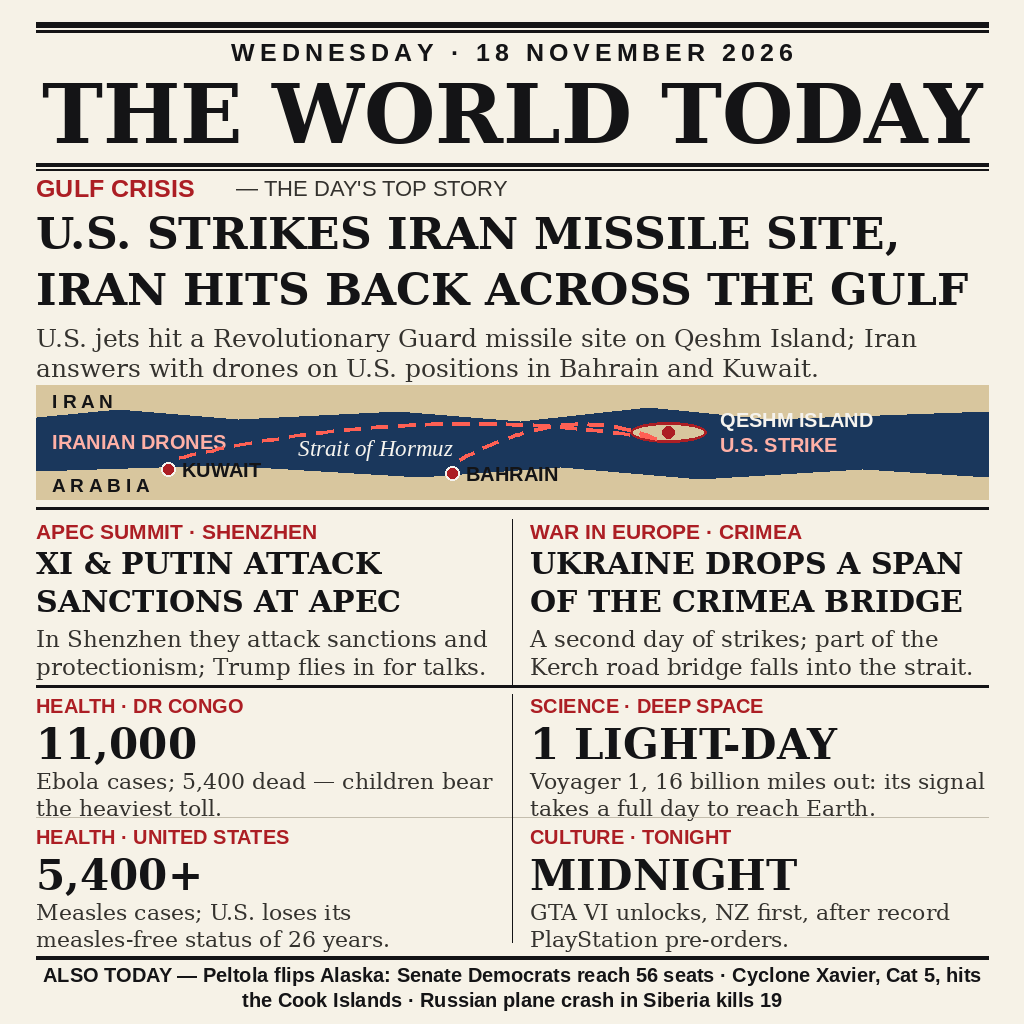
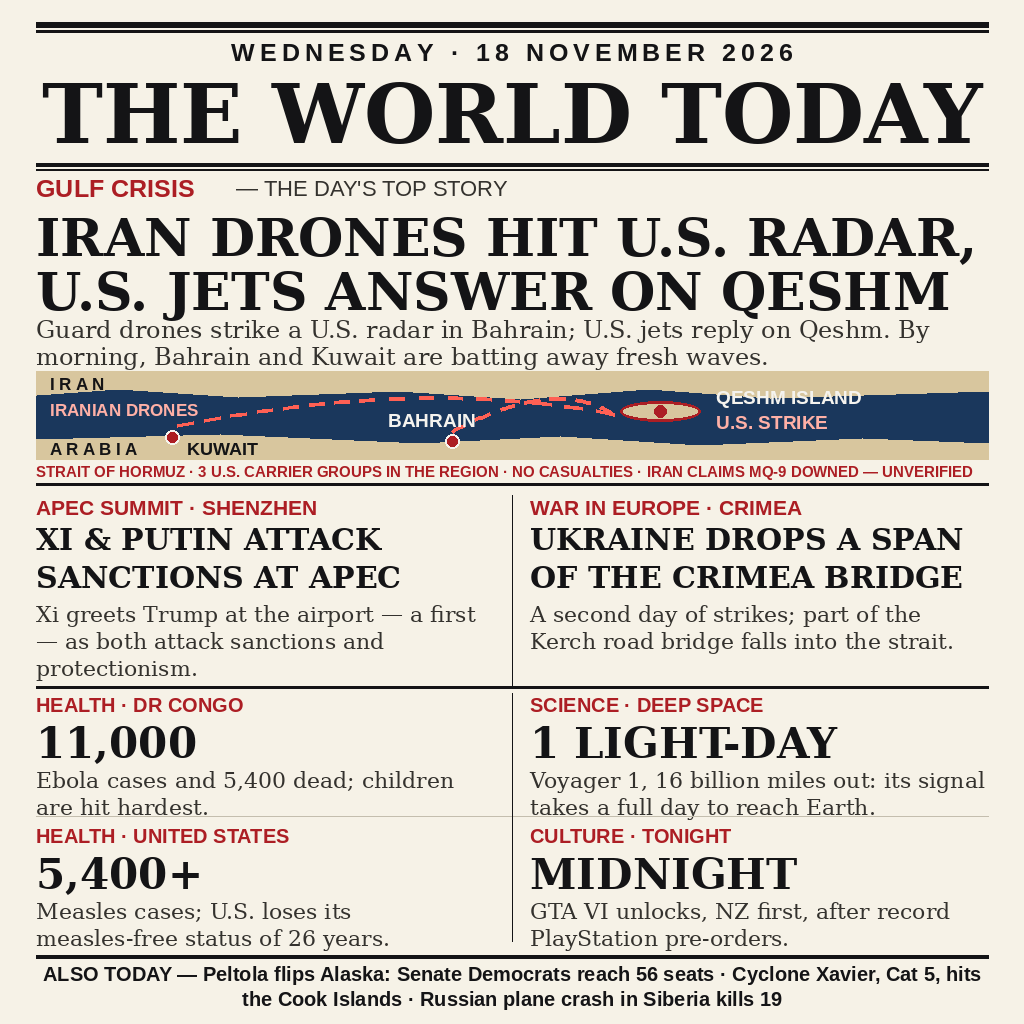
MAX revision: correct the Gulf sequence, enrich APEC, redraw the Hormuz map
Audited against Reuters/AFP wires of 18 Nov 2026: the Guard's drones
hit the U.S. radar in Bahrain first and U.S. jets answered on Qeshm --
the first edition had the order backwards. Adds the carrier-groups /
no-casualties / MQ-9-claim caption strip and Xi's airport greeting of
Trump; map labels no longer sit on flight paths or shorelines; bottom
grid text no longer touches its rules. Rendering stays deterministic
(byte-identical across runs); main.py gate copy verified.

Changed region(s): [[0.0312, 0.1875, 0.9688, 0.7188], [0.0312, 0.7188, 0.9688, 1.0], [0.875, 0.75, 0.9688, 0.7812]]

diff --git a/build_poster.py b/build_poster.py
@@ -1,25 +1,43 @@
 #!/usr/bin/env python3
 """Build poster.png -- "The World Today", Wednesday 18 November 2026.
 
-Design source for the entry image of the make.fun competition
-news-image-20261118. It renders a one-page newspaper front page with
-Pillow, from the day's wire reports (18 November 2026):
+MAX revision (2026-11-19) of the entry image for make.fun's
+news-image-20261118. Same one-page newspaper front page, rebuilt after a
+critical audit of the first edition against the day's wire reports
+(Reuters / AFP, 18 November 2026):
 
-  * U.S. jets strike a Revolutionary Guard missile site on Qeshm Island;
-    Iran answers with drones against U.S. positions in Bahrain and Kuwait.
-  * Xi Jinping and Vladimir Putin open the APEC summit in Shenzhen,
-    attacking sanctions and protectionism ahead of three-way talks with
-    Donald Trump.
-  * Ukraine strikes the Kerch Bridge to Crimea for a second day; part of
-    the road span falls into the strait.
-  * DR Congo's Ebola outbreak passes 11,000 cases and 5,400 deaths.
+  * SEQUENCE CORRECTED. The first edition implied the U.S. struck first
+    and Iran "hit back". The wires say the opposite order: Revolutionary
+    Guard drones targeted a U.S.-operated radar at Bahrain's Sheikh Isa
+    Air Base on Tuesday morning; U.S. jets struck the Guard missile
+    launch site on Qeshm Island on Tuesday evening in reply; early
+    Wednesday, Bahrain and Kuwait intercepted fresh drone/missile waves
+    (Ali Al Salem air base, Kuwait, among the targets). No casualties or
+    damage were reported from the interceptions.
+  * Detail added from the same wires: three U.S. carrier strike groups
+    now in the region (Theodore Roosevelt, George H. W. Bush, George
+    Washington); five to six explosions heard on Qeshm; Iran's claim --
+    unverified, and labelled as such -- to have downed a U.S. MQ-9 drone
+    east of the Strait of Hormuz.
+  * APEC corrected and enriched: Xi Jinping greeted Donald Trump at the
+    airport on his arrival -- the first time Xi has done so for a
+    visiting leader -- after Xi and Vladimir Putin attacked sanctions
+    and protectionism at the Shenzhen summit; the three-way meeting
+    follows on Thursday and has already drawn comparisons with Yalta.
+  * Map redrawn: no label sits on a flight path or a shoreline any more;
+    every label was checked on the rendered image.
+  * Bottom grid tightened so no body text touches a rule.
+
+Stories carried (all from the 18 November 2026 reports):
+  * Gulf crisis (lead, above).
+  * APEC summit, Shenzhen; Ukraine drops a span of the Kerch Bridge.
+  * DR Congo Ebola passes 11,000 cases and 5,400 deaths.
   * The United States loses its measles elimination status after 26 years.
   * NASA's Voyager 1 reaches one light-day from Earth.
-  * Grand Theft Auto VI begins its rolling midnight launch after record
-    pre-orders.
-  * Briefs: Peltola flips Alaska (Senate 56-44); Category 5 Cyclone
-    Xavier hits the Cook Islands; a Russian military plane crash in
-    Siberia kills 19.
+  * Grand Theft Auto VI begins its rolling midnight launch.
+  * Briefs: Peltola flips Alaska (Senate Democrats reach 56 seats);
+    Category 5 Cyclone Xavier hits the Cook Islands; a Russian plane
+    crash in Siberia kills 19.
 
 This script is run once, at build time, on the author's machine. The
 submitted program (main.py) only copies the rendered poster.png, because
@@ -118,46 +136,64 @@ def dashed_arc(draw, p0, p1, p2, fill, width=4, dash=14, gap=10):
             pen, dist = True, 0.0
 
 
-def draw_map(draw, y0, height=114):
-    """Schematic panel: the Strait of Hormuz and the Gulf."""
+def draw_map(draw, y0, height=88):
+    """Schematic panel: the Strait of Hormuz and the Gulf.
+
+    Label placement was the first edition's weak point (labels sat on
+    the dashed flight paths and on the target marker). Here every label
+    has its own clear water: the strait name top-left, the drone label
+    mid-left below the Kuwait arc's high point, the target names in the
+    water just above their shore dots, and Qeshm's name in the open
+    water to the island's right.
+    """
     y1 = y0 + height
     draw.rectangle([MARGIN, y0, RIGHT, y1], fill=SEA)
     # North shore: Iran.
     draw.polygon(
-        [(MARGIN, y0), (RIGHT, y0), (RIGHT, y0 + 26), (770, y0 + 34),
-         (648, y0 + 22), (520, y0 + 36), (398, y0 + 26), (238, y0 + 34),
-         (118, y0 + 24), (MARGIN, y0 + 32)],
+        [(MARGIN, y0), (RIGHT, y0), (RIGHT, y0 + 20), (770, y0 + 27),
+         (648, y0 + 18), (520, y0 + 28), (398, y0 + 20), (238, y0 + 26),
+         (118, y0 + 18), (MARGIN, y0 + 24)],
         fill=SAND,
     )
     # South shore: Arabia.
     draw.polygon(
-        [(MARGIN, y1), (MARGIN, y0 + 86), (220, y0 + 80), (420, y0 + 92),
-         (560, y0 + 82), (700, y0 + 94), (862, y0 + 84), (RIGHT, y0 + 92),
+        [(MARGIN, y1), (MARGIN, y0 + 68), (220, y0 + 63), (420, y0 + 72),
+         (560, y0 + 65), (700, y0 + 74), (862, y0 + 67), (RIGHT, y0 + 72),
          (RIGHT, y1)],
         fill=SAND,
     )
-    f_land = font(SANS_BOLD, 19)
-    draw.text((MARGIN + 16, y0 + 5), "I R A N", font=f_land, fill=INK)
-    draw.text((MARGIN + 16, y1 - 25), "A R A B I A", font=f_land, fill=INK)
-    draw.text((MARGIN + 262, y0 + 50), "Strait of Hormuz",
-              font=font(SERIF_IT, 23), fill=WHITE)
-    f_lab = font(SANS_BOLD, 20)
-    draw.text((MARGIN + 16, y0 + 45), "IRANIAN DRONES", font=f_lab, fill=PALE_RED)
+    f_land = font(SANS_BOLD, 17)
+    draw.text((MARGIN + 14, y0 + 3), "I R A N", font=f_land, fill=INK)
+    draw.text((MARGIN + 14, y1 - 20), "A R A B I A", font=f_land, fill=INK)
+    # (No in-map "Strait of Hormuz" label: every water position for it is
+    # crossed by a shore or a flight arc, so the strait is named in the
+    # caption line under the map instead.)
 
-    # Qeshm Island, in the strait; its labels sit to its right.
-    qx, qy = 668, y0 + 47
-    draw.ellipse([qx - 38, qy - 10, qx + 38, qy + 10], fill=SAND, outline=RED, width=3)
+    # Qeshm Island, in the strait; name in the open water to its right.
+    qx, qy = 660, y0 + 40
+    draw.ellipse([qx - 40, qy - 10, qx + 40, qy + 10], fill=SAND, outline=RED, width=3)
     draw.ellipse([qx - 6, qy - 6, qx + 6, qy + 6], fill=RED)
-    draw.text((qx + 52, qy - 24), "QESHM ISLAND", font=f_lab, fill=WHITE)
-    draw.text((qx + 52, qy + 1), "U.S. STRIKE", font=f_lab, fill=PALE_RED)
+    f_lab = font(SANS_BOLD, 19)
+    draw.text((qx + 56, qy - 25), "QESHM ISLAND", font=f_lab, fill=WHITE)
+    draw.text((qx + 56, qy + 0), "U.S. STRIKE", font=f_lab, fill=PALE_RED)
 
-    # Targets on the south shore: Bahrain and Kuwait.
-    targets = [(452, y0 + 88, "BAHRAIN"), (168, y0 + 84, "KUWAIT")]
-    for tx, ty, name in targets:
-        dashed_arc(draw, (qx - 12, qy + 7), ((qx + tx) / 2, y0 + 16), (tx, ty - 8),
-                   (255, 96, 84), width=4)
-        draw.ellipse([tx - 7, ty - 7, tx + 7, ty + 7], fill=RED, outline=WHITE, width=2)
-        draw.text((tx + 14, ty - 11), name, font=f_lab, fill=INK)
+    # Drone arcs: from the Iranian shore down to Bahrain and Kuwait.
+    # Targets sit on the south shore; their names float in the water
+    # just above each dot, clear of the arcs' endpoints.
+    # Bahrain: name in the water above its dot. Kuwait: name on the sand
+    # beside its dot -- the water above Kuwait is crossed by its own arc.
+    bx, by = 452, y0 + 70
+    dashed_arc(draw, (qx - 46, qy + 4), ((qx + bx) / 2, y0 + 6), (bx, by - 9),
+               (255, 96, 84), width=4)
+    draw.ellipse([bx - 7, by - 7, bx + 7, by + 7], fill=RED, outline=WHITE, width=2)
+    draw.text((bx - 64, by - 32), "BAHRAIN", font=f_lab, fill=WHITE)
+    kx, ky = 172, y0 + 66
+    dashed_arc(draw, (qx - 46, qy + 4), ((qx + kx) / 2, y0 + 6), (kx, ky - 9),
+               (255, 96, 84), width=4)
+    draw.ellipse([kx - 7, ky - 7, kx + 7, ky + 7], fill=RED, outline=WHITE, width=2)
+    draw.text((kx + 15, ky + 1), "KUWAIT", font=font(SANS_BOLD, 18), fill=INK)
+    draw.text((MARGIN + 14, y0 + 29), "IRANIAN DRONES", font=font(SANS_BOLD, 17),
+              fill=PALE_RED)
 
 
 def cell(draw, x, y, kicker, big, body):
@@ -191,20 +227,26 @@ def main():
     draw.text((MARGIN, y), "GULF CRISIS", font=font(SANS_BOLD, 25), fill=RED)
     draw.text((MARGIN + 200, y + 2), "— THE DAY'S TOP STORY", font=font(SANS, 22), fill=SOFT)
     y += 33
-    lead = ["U.S. STRIKES IRAN MISSILE SITE,", "IRAN HITS BACK ACROSS THE GULF"]
+    lead = ["IRAN DRONES HIT U.S. RADAR,", "U.S. JETS ANSWER ON QESHM"]
     f_h1 = fit_font(SERIF_BOLD, lead, RIGHT - MARGIN, 56)
     draw.text((MARGIN, y), lead[0], font=f_h1, fill=INK)
-    draw.text((MARGIN, y + 56), lead[1], font=f_h1, fill=INK)
-    y += 116
-    f_sub = font(SERIF, 25)
-    sub = ("U.S. jets hit a Revolutionary Guard missile site on Qeshm Island; "
-           "Iran answers with drones on U.S. positions in Bahrain and Kuwait.")
+    draw.text((MARGIN, y + 54), lead[1], font=f_h1, fill=INK)
+    y += 108
+    f_sub = font(SERIF, 24)
+    sub = ("Guard drones strike a U.S. radar in Bahrain; U.S. jets reply on "
+           "Qeshm. By morning, Bahrain and Kuwait are batting away fresh waves.")
     for line in wrap(draw, sub, f_sub, RIGHT - MARGIN):
         draw.text((MARGIN, y), line, font=f_sub, fill=SOFT)
-        y += 30
+        y += 27
     y += 2
     draw_map(draw, y)
-    y += 114 + 8
+    y += 88 + 4
+    f_cap = fit_font(SANS_BOLD,
+                     ["STRAIT OF HORMUZ · 3 U.S. CARRIER GROUPS IN THE REGION · NO CASUALTIES · IRAN CLAIMS MQ-9 DOWNED — UNVERIFIED"],
+                     RIGHT - MARGIN, 17)
+    draw.text((MARGIN, y), "STRAIT OF HORMUZ · 3 U.S. CARRIER GROUPS IN THE REGION · NO CASUALTIES · IRAN CLAIMS MQ-9 DOWNED — UNVERIFIED",
+              font=f_cap, fill=RED)
+    y += 20
     draw.rectangle([MARGIN, y, RIGHT, y + 2], fill=INK)
     y += 12
 
@@ -221,28 +263,28 @@ def main():
     for i, line in enumerate(right_h):
         draw.text((X2, y + i * 38), line, font=f_h2, fill=INK)
     y += 2 * 38 + 4
-    f_b = font(SERIF, 23)
-    left_b = ("In Shenzhen they attack sanctions and protectionism; "
-              "Trump flies in for talks.")
+    f_b = font(SERIF, 22)
+    left_b = ("Xi greets Trump at the airport — a first — as both "
+              "attack sanctions and protectionism.")
     right_b = ("A second day of strikes; part of the Kerch road bridge "
                "falls into the strait.")
     ly = y
     for line in wrap(draw, left_b, f_b, COLW):
         draw.text((MARGIN, ly), line, font=f_b, fill=SOFT)
-        ly += 28
+        ly += 27
     ry = y
     for line in wrap(draw, right_b, f_b, COLW):
         draw.text((X2, ry), line, font=f_b, fill=SOFT)
-        ry += 28
+        ry += 27
     y = max(ly, ry) + 4
     draw.line([MARGIN + COLW + 18, top, MARGIN + COLW + 18, y], fill=INK, width=1)
     draw.rectangle([MARGIN, y, RIGHT, y + 2], fill=INK)
-    y += 9
+    y += 7
 
     # --- Bottom grid: four stories with big numbers ---------------------
     gy = y
     cell(draw, MARGIN, gy, "HEALTH · DR CONGO", "11,000",
-         "Ebola cases; 5,400 dead — children bear the heaviest toll.")
+         "Ebola cases and 5,400 dead; children are hit hardest.")
     cell(draw, X2, gy, "SCIENCE · DEEP SPACE", "1 LIGHT-DAY",
          "Voyager 1, 16 billion miles out: its signal takes a full day "
          "to reach Earth.")

diff --git a/README.md b/README.md
@@ -2,18 +2,33 @@
 [![rank](https://make.fun/badge/news-image-20261118/yugot-coder/news-image-20261118/rank.svg)](https://make.fun/bounty/news-image-20261118/leaderboard?utm_source=github&utm_medium=readme&utm_campaign=news-image-20261118)
 [![reward](https://make.fun/badge/news-image-20261118/yugot-coder/news-image-20261118/reward.svg)](https://make.fun/bounty/news-image-20261118?utm_source=github&utm_medium=readme&utm_campaign=news-image-20261118)
 
-# The World Today — Wednesday 18 November 2026
+# The World Today — Wednesday 18 November 2026 (MAX revision)
 
 An entry for make.fun's **news-image-20261118**: one image that sums up
 the world's news of Wednesday 18 November 2026.
 
+This is the revised edition of the front page, rebuilt on 19 November
+after a critical audit against the day's wire reports (Reuters / AFP):
+
+- **Lead sequence corrected.** The first edition implied the U.S.
+  struck first and Iran hit back. The wires say the Guard's drones hit
+  a U.S. radar in Bahrain first, U.S. jets answered on Qeshm Island,
+  and by Wednesday morning Bahrain and Kuwait were intercepting fresh
+  waves — no casualties reported. The headline now reads in that order.
+- **More of the day, verified:** three U.S. carrier groups in the
+  region; Iran's claim (labelled unverified) to have downed a U.S.
+  MQ-9; Xi Jinping greeting Donald Trump at the airport — a first —
+  at the Shenzhen APEC summit.
+- **Map redrawn** so no label sits on a flight path or a shoreline,
+  and the bottom grid tightened so no text touches a rule.
+
 The image is a one-page newspaper front page, *The World Today*:
 
-- **Lead:** U.S. jets strike a Revolutionary Guard missile site on
-  Qeshm Island; Iran answers with drones on U.S. positions in Bahrain
-  and Kuwait — with a schematic map of the Strait of Hormuz.
-- **APEC, Shenzhen:** Xi and Putin attack sanctions and protectionism;
-  Trump flies in for three-way talks.
+- **Lead:** Guard drones strike a U.S. radar in Bahrain; U.S. jets
+  reply on Qeshm Island — with a schematic map of the Strait of Hormuz
+  and a caption strip of the day's military facts.
+- **APEC, Shenzhen:** Xi and Putin attack sanctions and
+  protectionism; Xi greets Trump at the airport, a first.
 - **Crimea:** Ukraine drops a span of the Kerch Bridge into the strait.
 - **DR Congo:** Ebola passes 11,000 cases, 5,400 dead.
 - **United States:** measles cases pass 5,400 and the U.S. loses its
@@ -28,7 +43,7 @@ The image is a one-page newspaper front page, *The World Today*:
 - `build_poster.py` renders `poster.png` (1024×1024) with Pillow from
   the day's wire reports. It runs once, at build time, on the author's
   machine; rendering is deterministic (fixed fonts, no clock, no
-  randomness).
+  randomness — two runs produce byte-identical PNGs).
 - `main.py` is the submitted program (Python 3.13, standard library
   only). It copies `poster.png` to `$MAKEFUN_OUTPUT_DIR/entry.png`
   (default `/output/entry.png`), byte for byte, so repeated runs write
